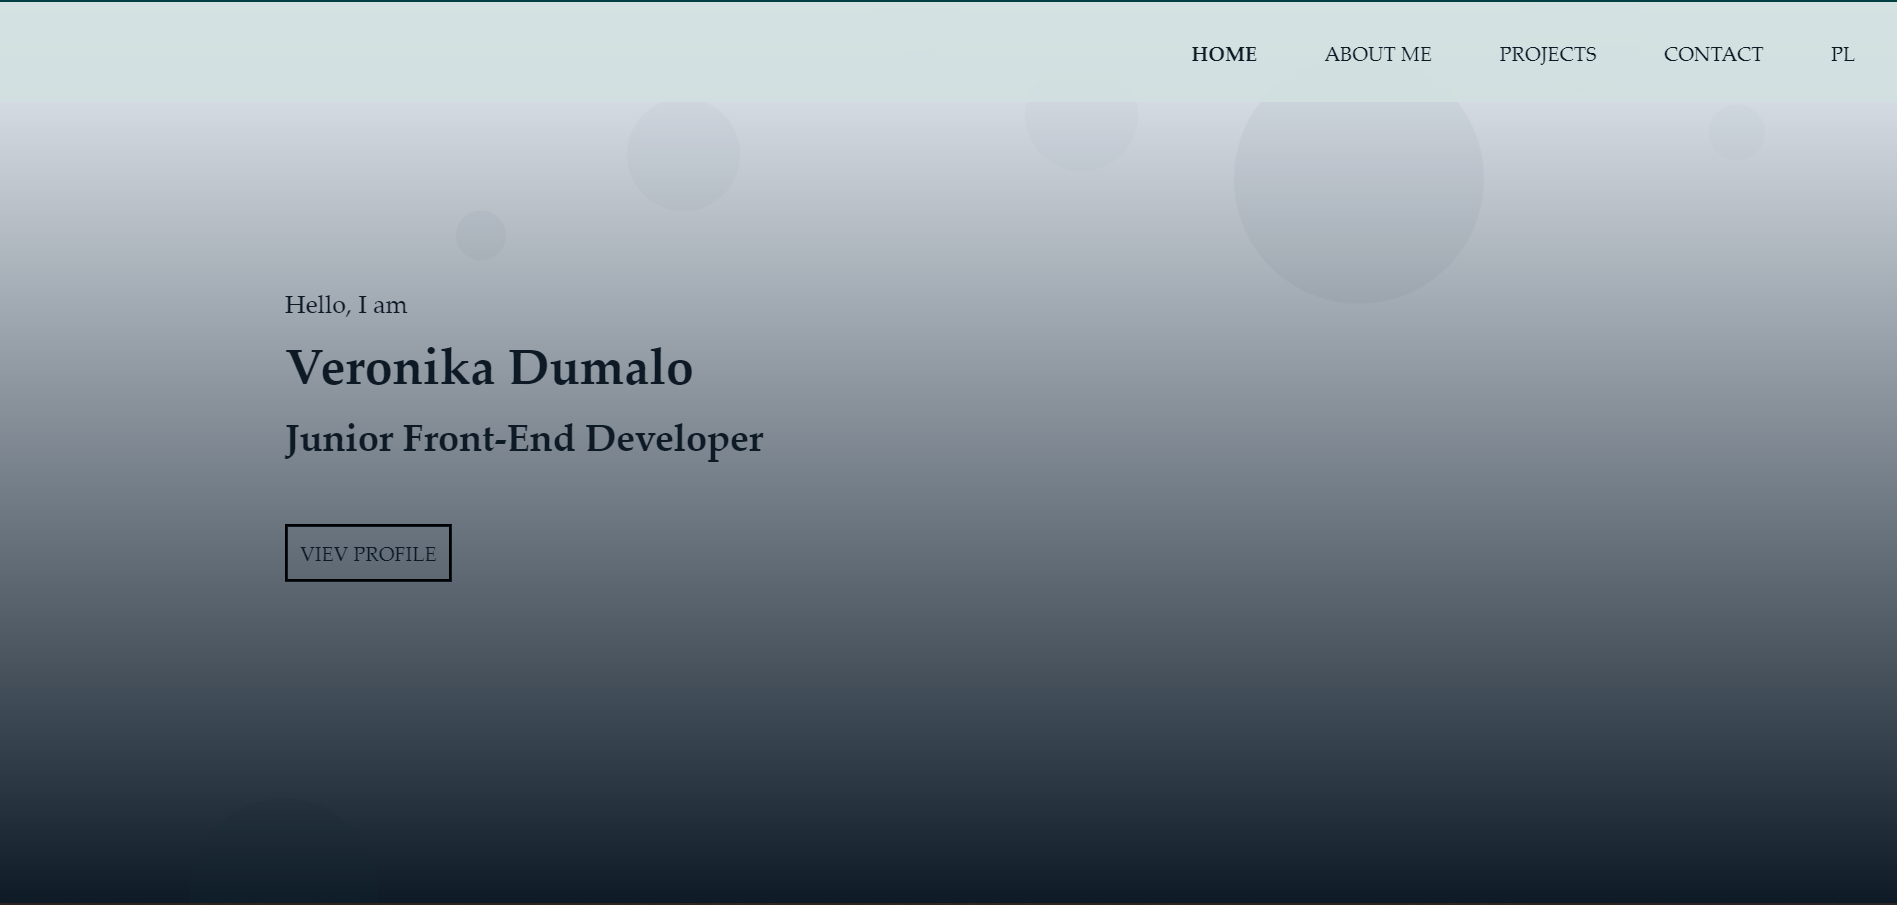
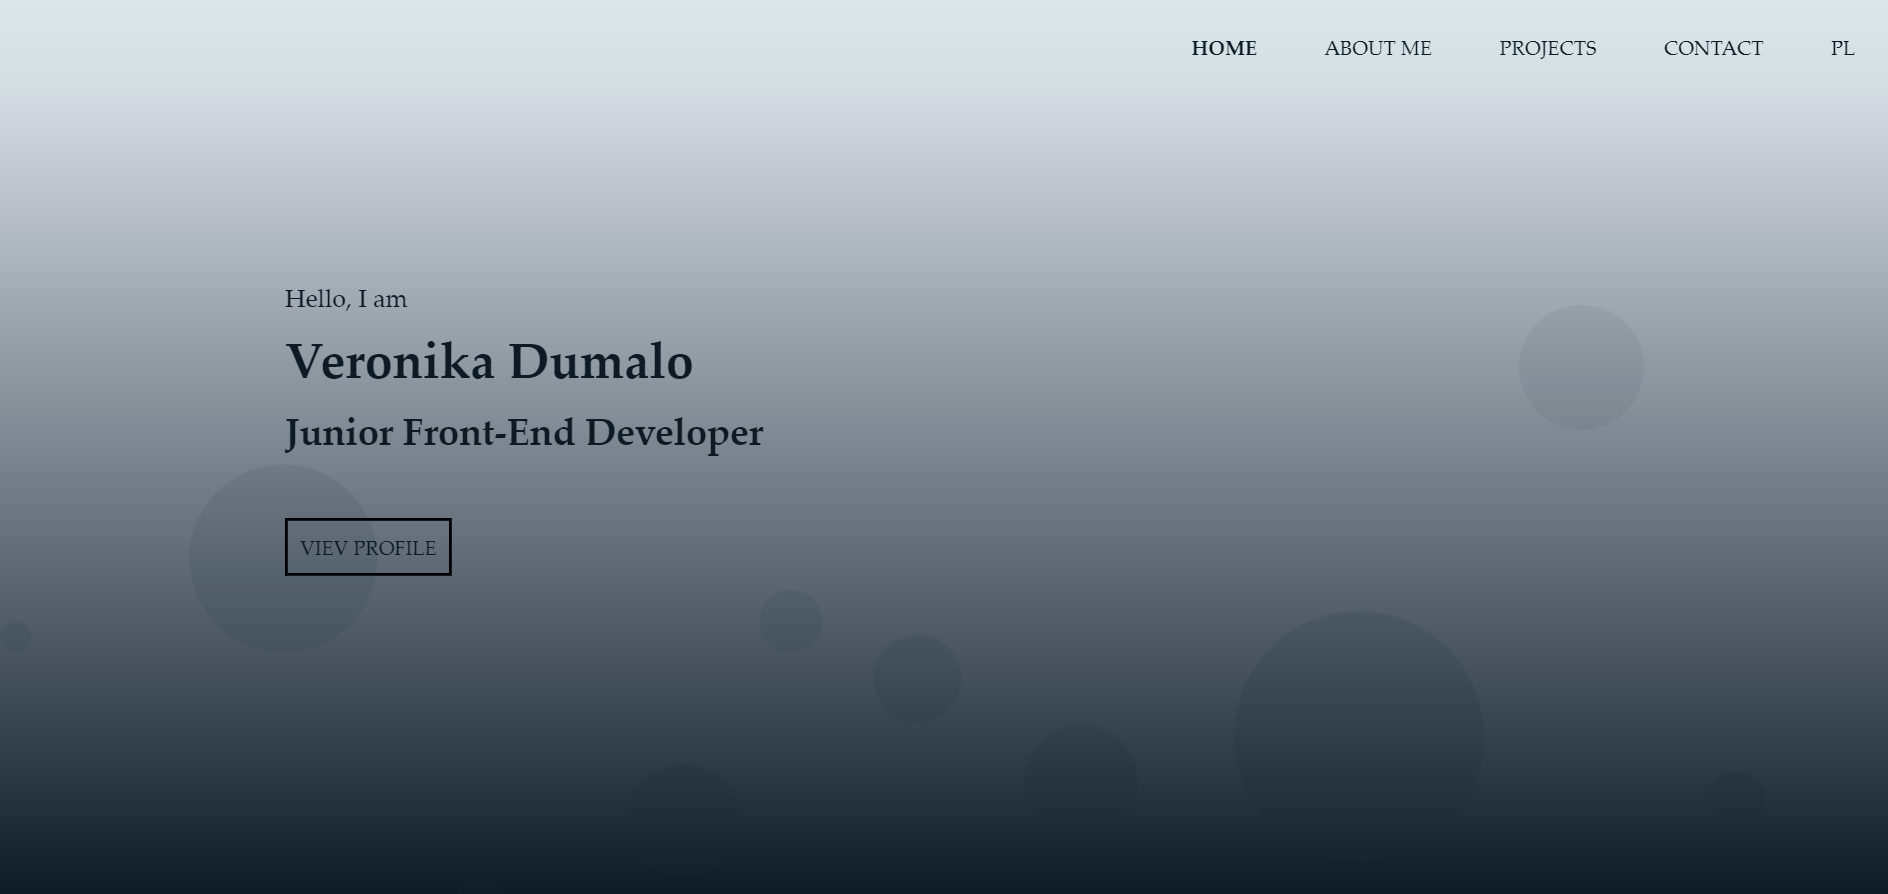
update

diff --git a/home_pl.html b/home_pl.html
@@ -56,7 +56,7 @@
                 </div>
                 <div class="column">
                     <p>
-                        Jestem początkującym web developerem, który codziennie zdobywa nową wiedze. Nie mam komercyjnego doświadczenia w tworzeniu aplikacji internetowych lub stron, ale chcę jaknajszybciej to zmienić.
+                        Jestem początkującym web developerem. Nie mam komercyjnego doświadczenia w tworzeniu aplikacji internetowych lub stron, ale chcę jaknajszybciej to zmienić.
                         Jestem magistrem Informatyki. Na studiach otrzymałam  obszerną wiedzę i dużo informacji w zakresie technologii internetowych i grafiki 3D. Potrafie robić proste strony internetowe oraz aplikacje, wykorzystując
                         HTML, CSS, JS, PHP oraz bazy danych. Obecnie poznaje możliwości Reacta. 
                     </p>
@@ -134,8 +134,10 @@
             <div class="row">
                 <div class="column">
                     <h1>Strona internetowa dla Polski Centrum Miłośników Zwierząt</h1>
-                    <p>Strona stworzona w celu prezentowania działania organizacji Polski Centrum Miłośników Zwierząt. Projekt napisany za pomocą HTML i CSS. Napisano dwa skrypty w JS. 
-                    Jeden służy do wyszukiwania elementów tablicy. A drugi odpowiada za przełączenie galerii zdjęć na stronie głównej.</p>
+                    <p>
+                        Strona stworzona w celu prezentowania działania organizacji Polski Centrum Miłośników Zwierząt.
+                        Projekt stworzono za pomocą HTML, CSS i JS.
+                    </p>
                 </div>
                 <div class="column">
                     <a target="_blank" href="http://spcmz.czest.pl/glowna.html"><img src="image/spcmz.png" class="image_project" /></a>
@@ -152,17 +154,15 @@
                 <div class="column">
                     <h1>Smartphone World</h1>
                     <p>
-                        Projekt jest sklepem internetowym smartphonów. Do wykonania tego projektu wykorzystano HTML, CSS, PHP i bazę danych SQL
-                        
+                        Projekt jest sklepem internetowym smartphonów. Do wykonania tego projektu wykorzystano HTML, CSS, PHP i bazę danych SQL 
+
                         <span id="moreDots">...</span>
                         <span id="moreText">
+                            :
                             <br />
-                            <br />
-                            - Wyświetlenie produktów sklepu odbywa się z bazy danych.
-                            <br />
-                            - Project zawiera formularz do rejestracji oraz logowania. Pod czas rejestracji dane użytkownika zapisują się do tablicy client w bazie danych oraz tworzy się nowa tablica z nazwą o login użytkownika dla obsłógi funkcji koszyka.
-                            <br />
-                            - Po poprawnym logowaniu można dodawać produkty do koszyka lub zmienić swoje dane.
+                            <br /> - Strona zawiera możliwość rejestracji oraz logowania dla użytkowników.
+                            <br /> - Dane o asortymencie sklepu wypisują się z bazy danych.
+                            <br /> - Dane użytkowników zapisują się do bazy danych. 
                         </span>
                     </p>
                     <p>  </p>
@@ -176,6 +176,22 @@
             <div class="project_button">
                 <a target="_blank" href="">STRONA STARTOWA</a>
                 <a target="_blank" href="https://github.com/veronikadumalo/veronikadumalo_phoneshop.git">KOD</a>
+            </div>
+        </div>
+        <hr />
+        <div class="project_box">
+            <div class="row">
+                <div class="column">
+                    <h1>Portfolio</h1>
+                    <p> </p>
+                </div>
+                <div class="column">
+                    <a target="_blank" href=""><img src="image/portfolio_screen.png" class="image_project" /></a>
+                </div>
+            </div>
+            <div class="project_button">
+                <a href="">OPEN</a>
+                <a href="h">CHECK CODE</a>
             </div>
         </div>
         <hr />

diff --git a/home.html b/home.html
@@ -162,8 +162,24 @@
                 </div>
             </div>
             <div class="project_button">
-                <a href="http://spcmz.czest.pl/glowna.html">OPEN</a>
+                <a href="">OPEN</a>
                 <a href="https://github.com/veronikadumalo/veronikadumalo_phoneshop.git">CHECK CODE</a>
+            </div>
+        </div>
+        <hr />
+        <div class="project_box">
+            <div class="row">
+                <div class="column">
+                    <h1>Personal portfolio</h1>
+                    <p></p>
+                </div>
+                <div class="column">
+                    <a target="_blank" href=""><img src="image/portfolio_screen.png" class="image_project" /></a>
+                </div>
+            </div>
+            <div class="project_button">
+                <a href="">OPEN</a>
+                <a href="h">CHECK CODE</a>
             </div>
         </div>
         <hr />

diff --git a/style.css b/style.css
@@ -15,7 +15,7 @@ body {
     width: 100%;
     position: fixed; /* Safari */
     height: 80px;
-    background-color: rgba(209, 224, 224, 0.9);
+    background-color: rgba(209, 224, 224, 0.7);
 }
 .menu ul{
     float:right;
